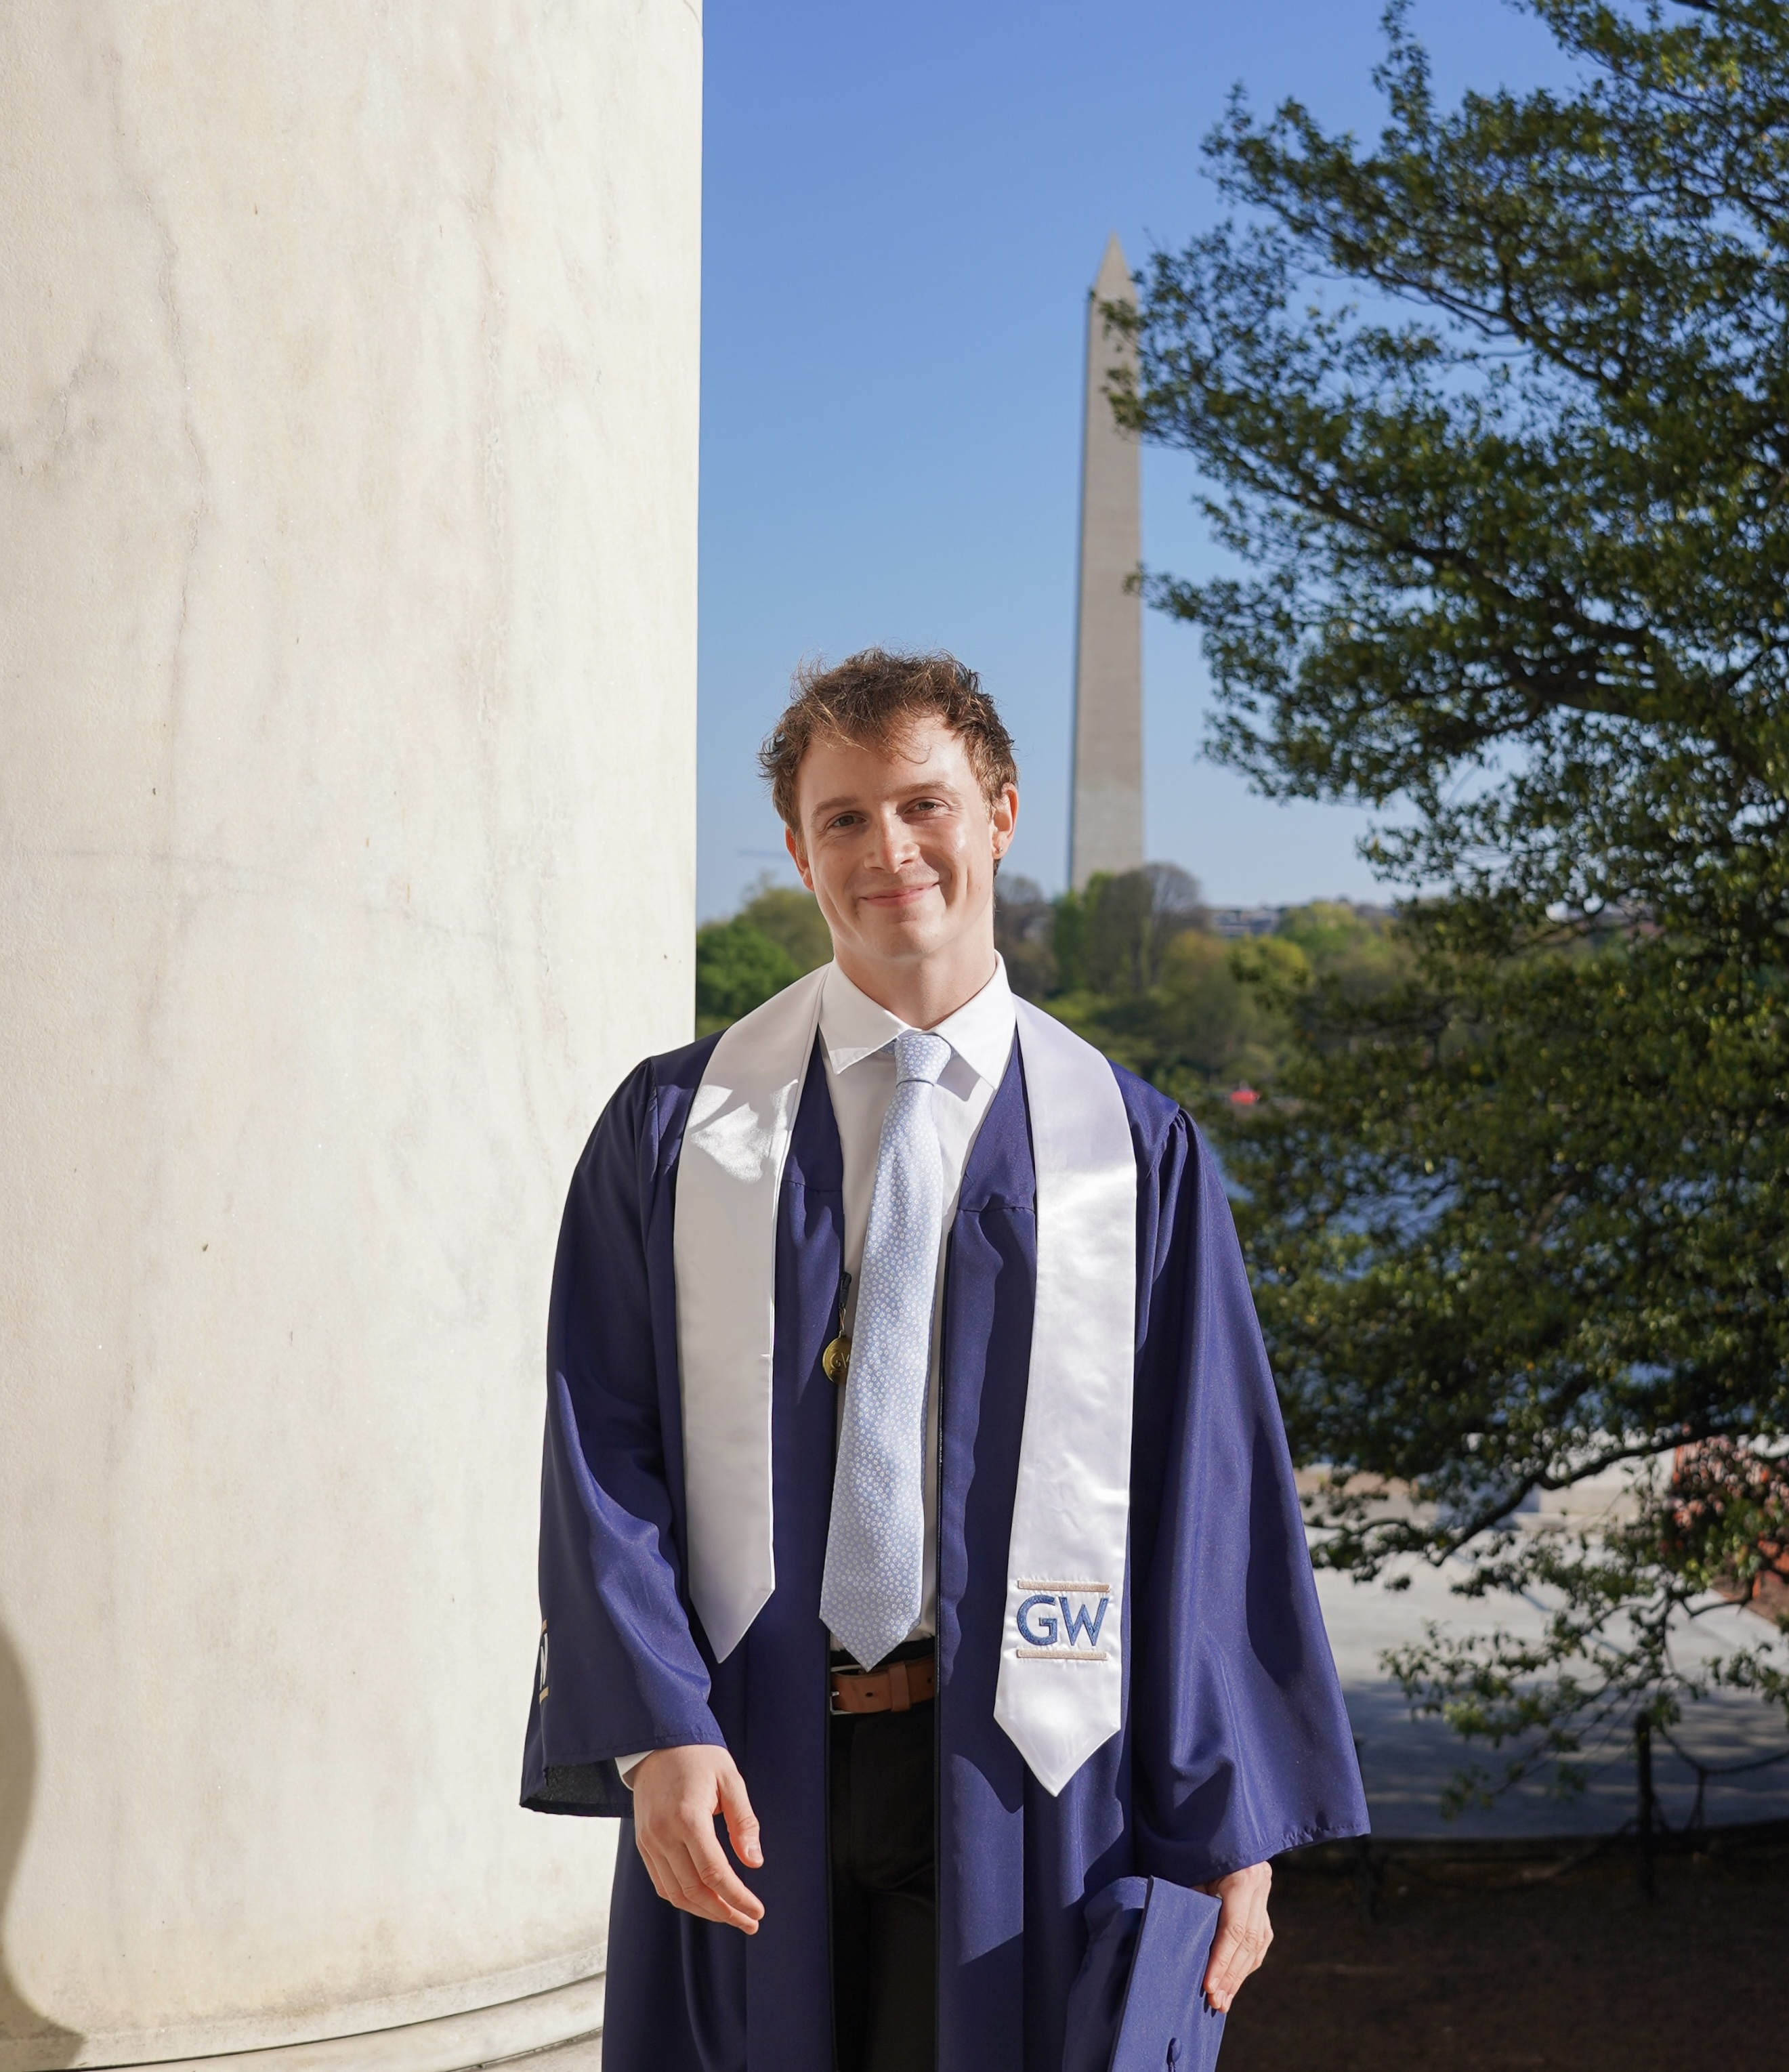
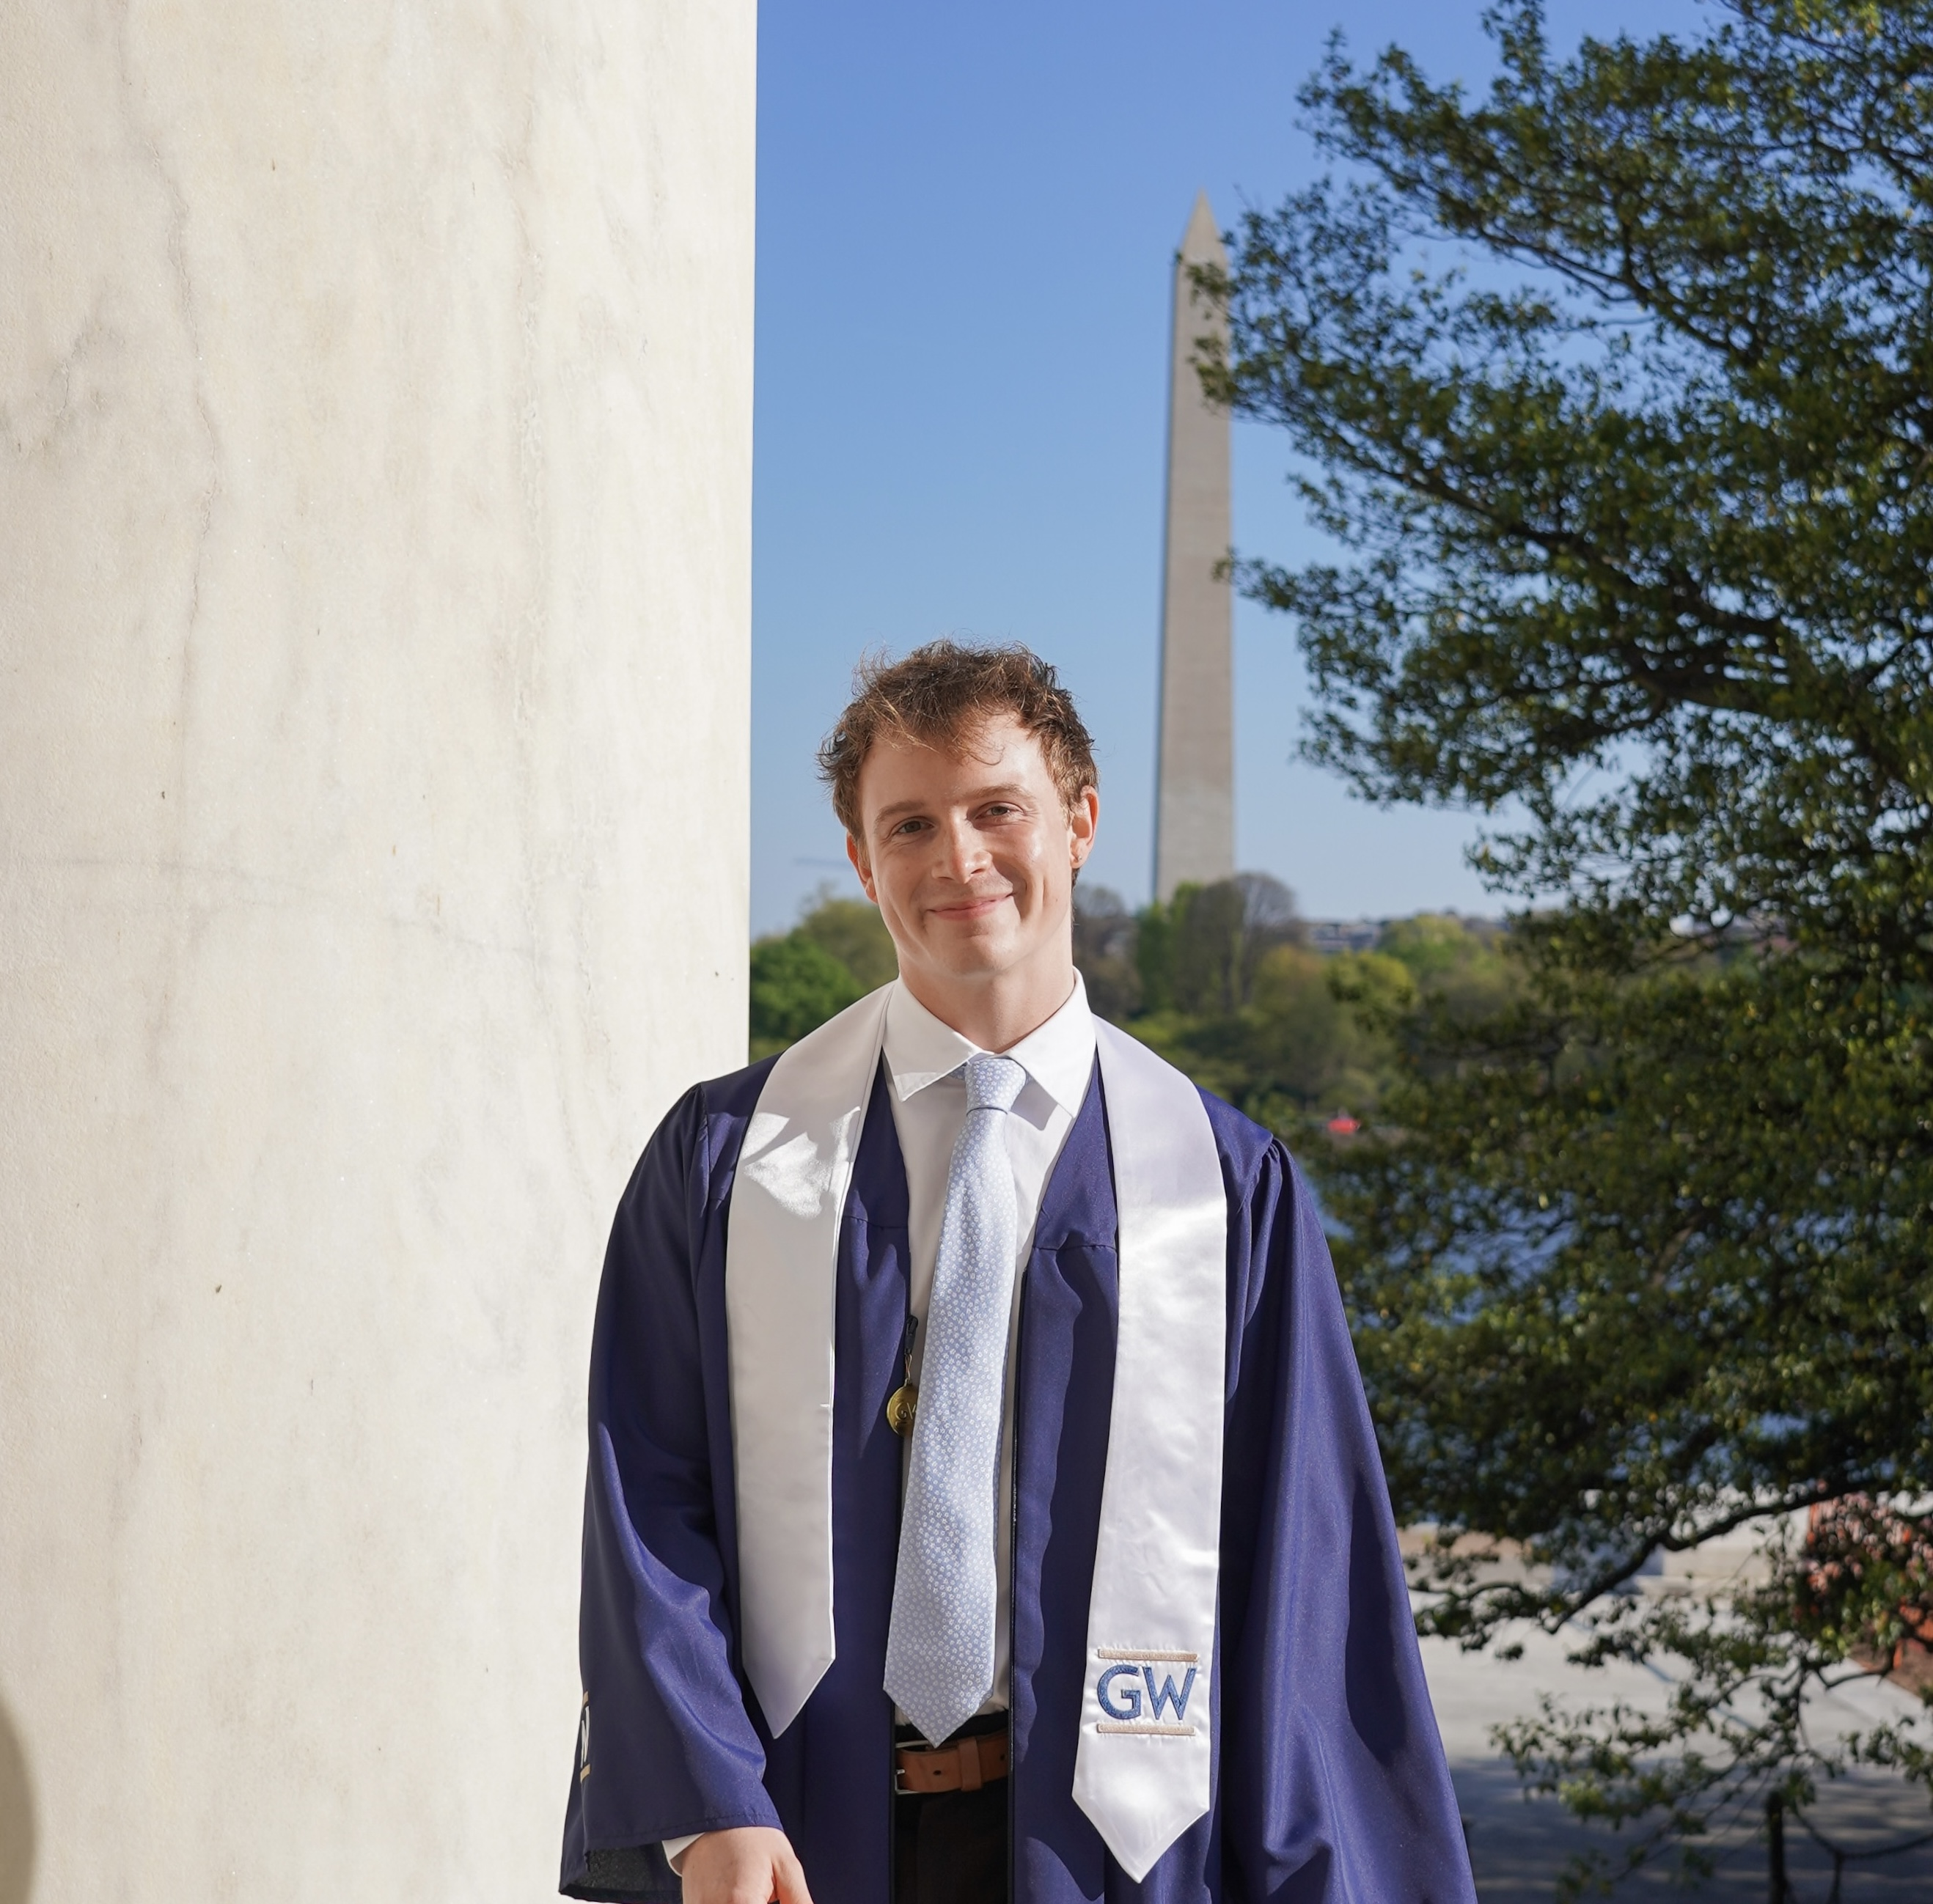
PFP and style change

diff --git a/docs/index.html b/docs/index.html
@@ -39,7 +39,7 @@ ul.task-list li input[type="checkbox"] {
 <link href="site_libs/quarto-html/quarto-syntax-highlighting-7b89279ff1a6dce999919e0e67d4d9ec.css" rel="stylesheet" id="quarto-text-highlighting-styles">
 <script src="site_libs/bootstrap/bootstrap.min.js"></script>
 <link href="site_libs/bootstrap/bootstrap-icons.css" rel="stylesheet">
-<link href="site_libs/bootstrap/bootstrap-80f6653e4bad1240590acd7234152a3f.min.css" rel="stylesheet" append-hash="true" id="quarto-bootstrap" data-mode="light">
+<link href="site_libs/bootstrap/bootstrap-a25750924116104412f7a457768fb952.min.css" rel="stylesheet" append-hash="true" id="quarto-bootstrap" data-mode="light">
 <script id="quarto-search-options" type="application/json">{
   "location": "navbar",
   "copy-button": false,
@@ -72,7 +72,7 @@ ul.task-list li input[type="checkbox"] {
 <link rel="stylesheet" href="styles.css">
 </head>
 
-<body class="nav-fixed fullcontent quarto-light">
+<body class="nav-fixed quarto-light">
 
 <div id="quarto-search-results"></div>
   <header id="quarto-header" class="headroom fixed-top">
@@ -134,12 +134,12 @@ ul.task-list li input[type="checkbox"] {
     </nav>
 </header>
 <!-- content -->
-<div id="quarto-content" class="quarto-container page-columns page-rows-contents page-layout-article page-navbar">
+<div id="quarto-content" class="quarto-container page-columns page-rows-contents page-layout-full page-navbar">
 <!-- sidebar -->
 <!-- margin-sidebar -->
     
 <!-- main -->
-<div class="quarto-about-trestles">
+<div class="quarto-about-trestles column-page">
   <div class="about-entity">
     <img src="pfp3.jpg" class="about-image
   rounded " style="width: 20em;">
@@ -147,7 +147,7 @@ ul.task-list li input[type="checkbox"] {
 <div class="quarto-title">
 <h1 class="title">Connor Wolosewicz</h1>
 </div>
-<div class="quarto-title-meta">
+<div class="quarto-title-meta column-page">
   </div>
 </header>
     <div class="about-links">
@@ -165,7 +165,7 @@ ul.task-list li input[type="checkbox"] {
   </a>
 </div>
   </div>
-  <div class="about-contents"><main class="content" id="quarto-document-content">
+  <div class="about-contents"><main class="content column-page" id="quarto-document-content">
 <section id="about-me" class="level2">
 <h2 data-anchor-id="about-me">About Me</h2>
 <p>I’m Connor, and I’m an aspiring urban planner in the Chicago area hoping to make cities more sustainable. I recently graduated summa cum laude from George Washington University with a BS in Environmental and Sustainability Science and a second major in Public Policy.</p>

diff --git a/docs/blog.html b/docs/blog.html
@@ -42,7 +42,7 @@ ul.task-list li input[type="checkbox"] {
 <link href="site_libs/quarto-html/quarto-syntax-highlighting-7b89279ff1a6dce999919e0e67d4d9ec.css" rel="stylesheet" id="quarto-text-highlighting-styles">
 <script src="site_libs/bootstrap/bootstrap.min.js"></script>
 <link href="site_libs/bootstrap/bootstrap-icons.css" rel="stylesheet">
-<link href="site_libs/bootstrap/bootstrap-80f6653e4bad1240590acd7234152a3f.min.css" rel="stylesheet" append-hash="true" id="quarto-bootstrap" data-mode="light">
+<link href="site_libs/bootstrap/bootstrap-a25750924116104412f7a457768fb952.min.css" rel="stylesheet" append-hash="true" id="quarto-bootstrap" data-mode="light">
 <script id="quarto-search-options" type="application/json">{
   "location": "navbar",
   "copy-button": false,

diff --git a/docs/extra.html b/docs/extra.html
@@ -40,7 +40,7 @@ ul.task-list li input[type="checkbox"] {
 <link href="site_libs/quarto-html/quarto-syntax-highlighting-7b89279ff1a6dce999919e0e67d4d9ec.css" rel="stylesheet" id="quarto-text-highlighting-styles">
 <script src="site_libs/bootstrap/bootstrap.min.js"></script>
 <link href="site_libs/bootstrap/bootstrap-icons.css" rel="stylesheet">
-<link href="site_libs/bootstrap/bootstrap-80f6653e4bad1240590acd7234152a3f.min.css" rel="stylesheet" append-hash="true" id="quarto-bootstrap" data-mode="light">
+<link href="site_libs/bootstrap/bootstrap-a25750924116104412f7a457768fb952.min.css" rel="stylesheet" append-hash="true" id="quarto-bootstrap" data-mode="light">
 <script id="quarto-search-options" type="application/json">{
   "location": "navbar",
   "copy-button": false,

diff --git a/docs/gis.html b/docs/gis.html
@@ -40,7 +40,7 @@ ul.task-list li input[type="checkbox"] {
 <link href="site_libs/quarto-html/quarto-syntax-highlighting-7b89279ff1a6dce999919e0e67d4d9ec.css" rel="stylesheet" id="quarto-text-highlighting-styles">
 <script src="site_libs/bootstrap/bootstrap.min.js"></script>
 <link href="site_libs/bootstrap/bootstrap-icons.css" rel="stylesheet">
-<link href="site_libs/bootstrap/bootstrap-80f6653e4bad1240590acd7234152a3f.min.css" rel="stylesheet" append-hash="true" id="quarto-bootstrap" data-mode="light">
+<link href="site_libs/bootstrap/bootstrap-a25750924116104412f7a457768fb952.min.css" rel="stylesheet" append-hash="true" id="quarto-bootstrap" data-mode="light">
 <script id="quarto-search-options" type="application/json">{
   "location": "navbar",
   "copy-button": false,

diff --git a/docs/projects.html b/docs/projects.html
@@ -40,7 +40,7 @@ ul.task-list li input[type="checkbox"] {
 <link href="site_libs/quarto-html/quarto-syntax-highlighting-7b89279ff1a6dce999919e0e67d4d9ec.css" rel="stylesheet" id="quarto-text-highlighting-styles">
 <script src="site_libs/bootstrap/bootstrap.min.js"></script>
 <link href="site_libs/bootstrap/bootstrap-icons.css" rel="stylesheet">
-<link href="site_libs/bootstrap/bootstrap-80f6653e4bad1240590acd7234152a3f.min.css" rel="stylesheet" append-hash="true" id="quarto-bootstrap" data-mode="light">
+<link href="site_libs/bootstrap/bootstrap-a25750924116104412f7a457768fb952.min.css" rel="stylesheet" append-hash="true" id="quarto-bootstrap" data-mode="light">
 <script id="quarto-search-options" type="application/json">{
   "location": "navbar",
   "copy-button": false,

diff --git a/docs/resume.html b/docs/resume.html
@@ -40,7 +40,7 @@ ul.task-list li input[type="checkbox"] {
 <link href="site_libs/quarto-html/quarto-syntax-highlighting-7b89279ff1a6dce999919e0e67d4d9ec.css" rel="stylesheet" id="quarto-text-highlighting-styles">
 <script src="site_libs/bootstrap/bootstrap.min.js"></script>
 <link href="site_libs/bootstrap/bootstrap-icons.css" rel="stylesheet">
-<link href="site_libs/bootstrap/bootstrap-80f6653e4bad1240590acd7234152a3f.min.css" rel="stylesheet" append-hash="true" id="quarto-bootstrap" data-mode="light">
+<link href="site_libs/bootstrap/bootstrap-a25750924116104412f7a457768fb952.min.css" rel="stylesheet" append-hash="true" id="quarto-bootstrap" data-mode="light">
 <script id="quarto-search-options" type="application/json">{
   "location": "navbar",
   "copy-button": false,

diff --git a/docs/writing.html b/docs/writing.html
@@ -40,7 +40,7 @@ ul.task-list li input[type="checkbox"] {
 <link href="site_libs/quarto-html/quarto-syntax-highlighting-7b89279ff1a6dce999919e0e67d4d9ec.css" rel="stylesheet" id="quarto-text-highlighting-styles">
 <script src="site_libs/bootstrap/bootstrap.min.js"></script>
 <link href="site_libs/bootstrap/bootstrap-icons.css" rel="stylesheet">
-<link href="site_libs/bootstrap/bootstrap-80f6653e4bad1240590acd7234152a3f.min.css" rel="stylesheet" append-hash="true" id="quarto-bootstrap" data-mode="light">
+<link href="site_libs/bootstrap/bootstrap-a25750924116104412f7a457768fb952.min.css" rel="stylesheet" append-hash="true" id="quarto-bootstrap" data-mode="light">
 <script id="quarto-search-options" type="application/json">{
   "location": "navbar",
   "copy-button": false,